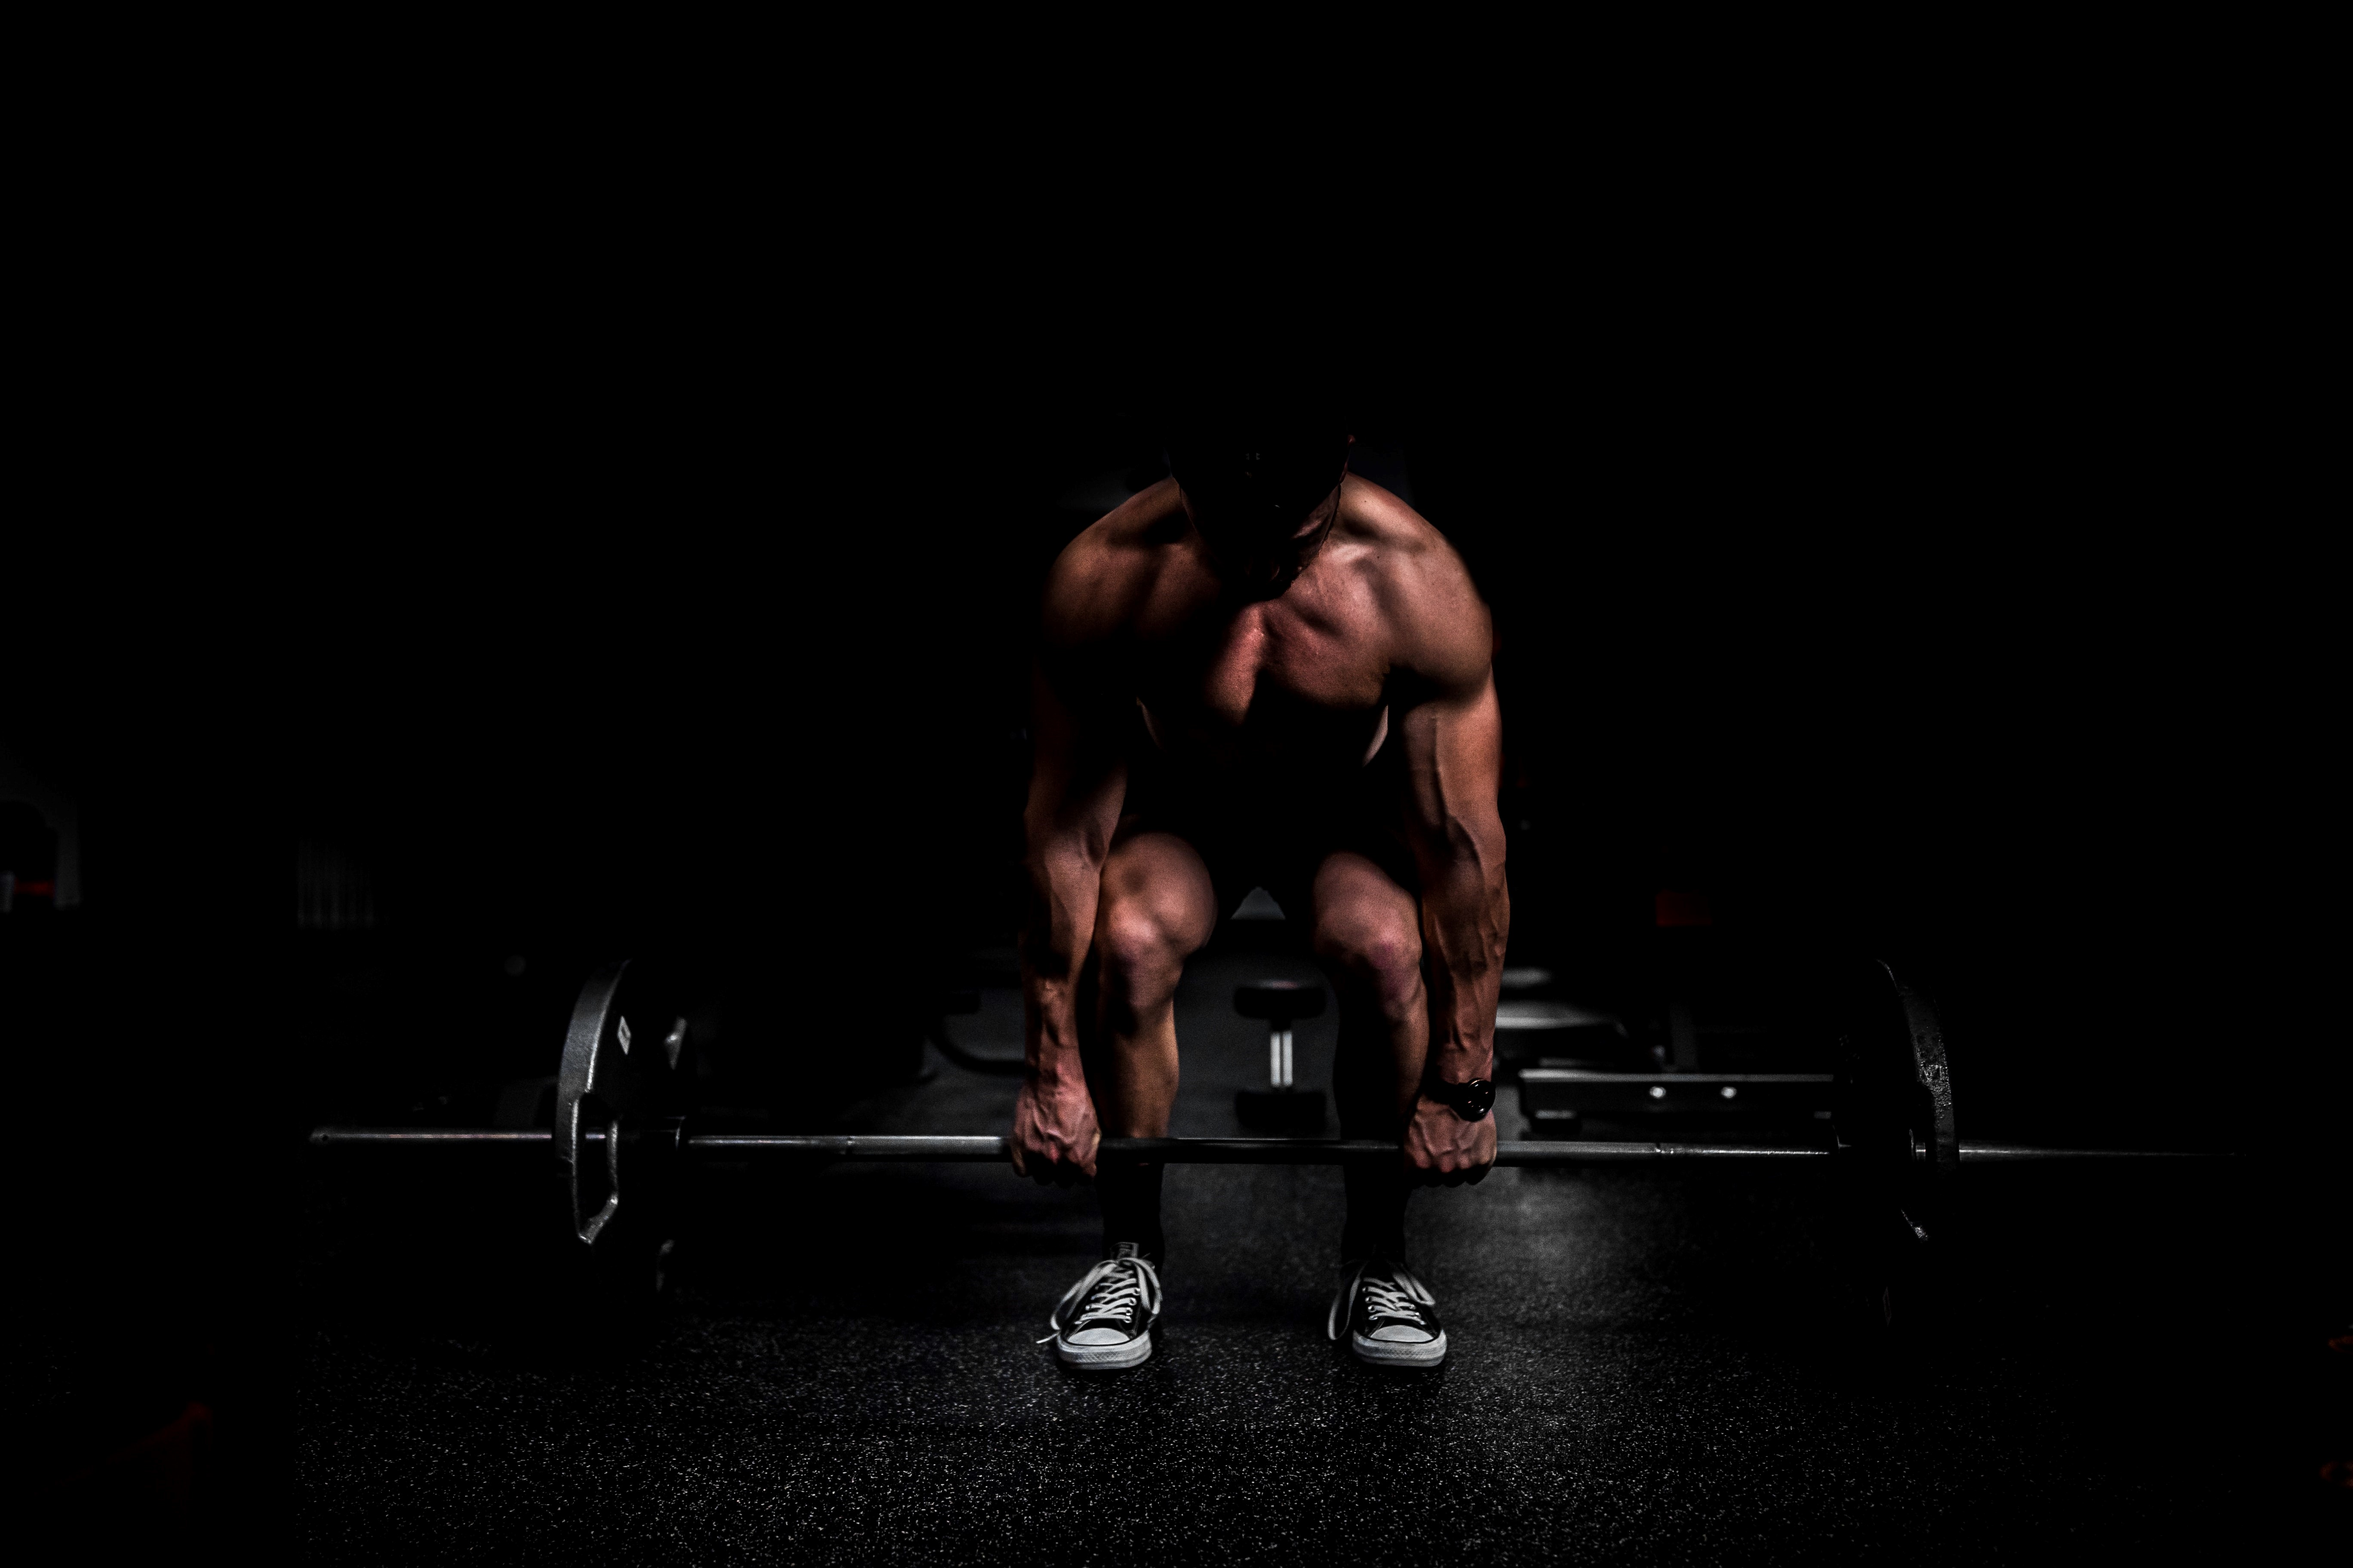
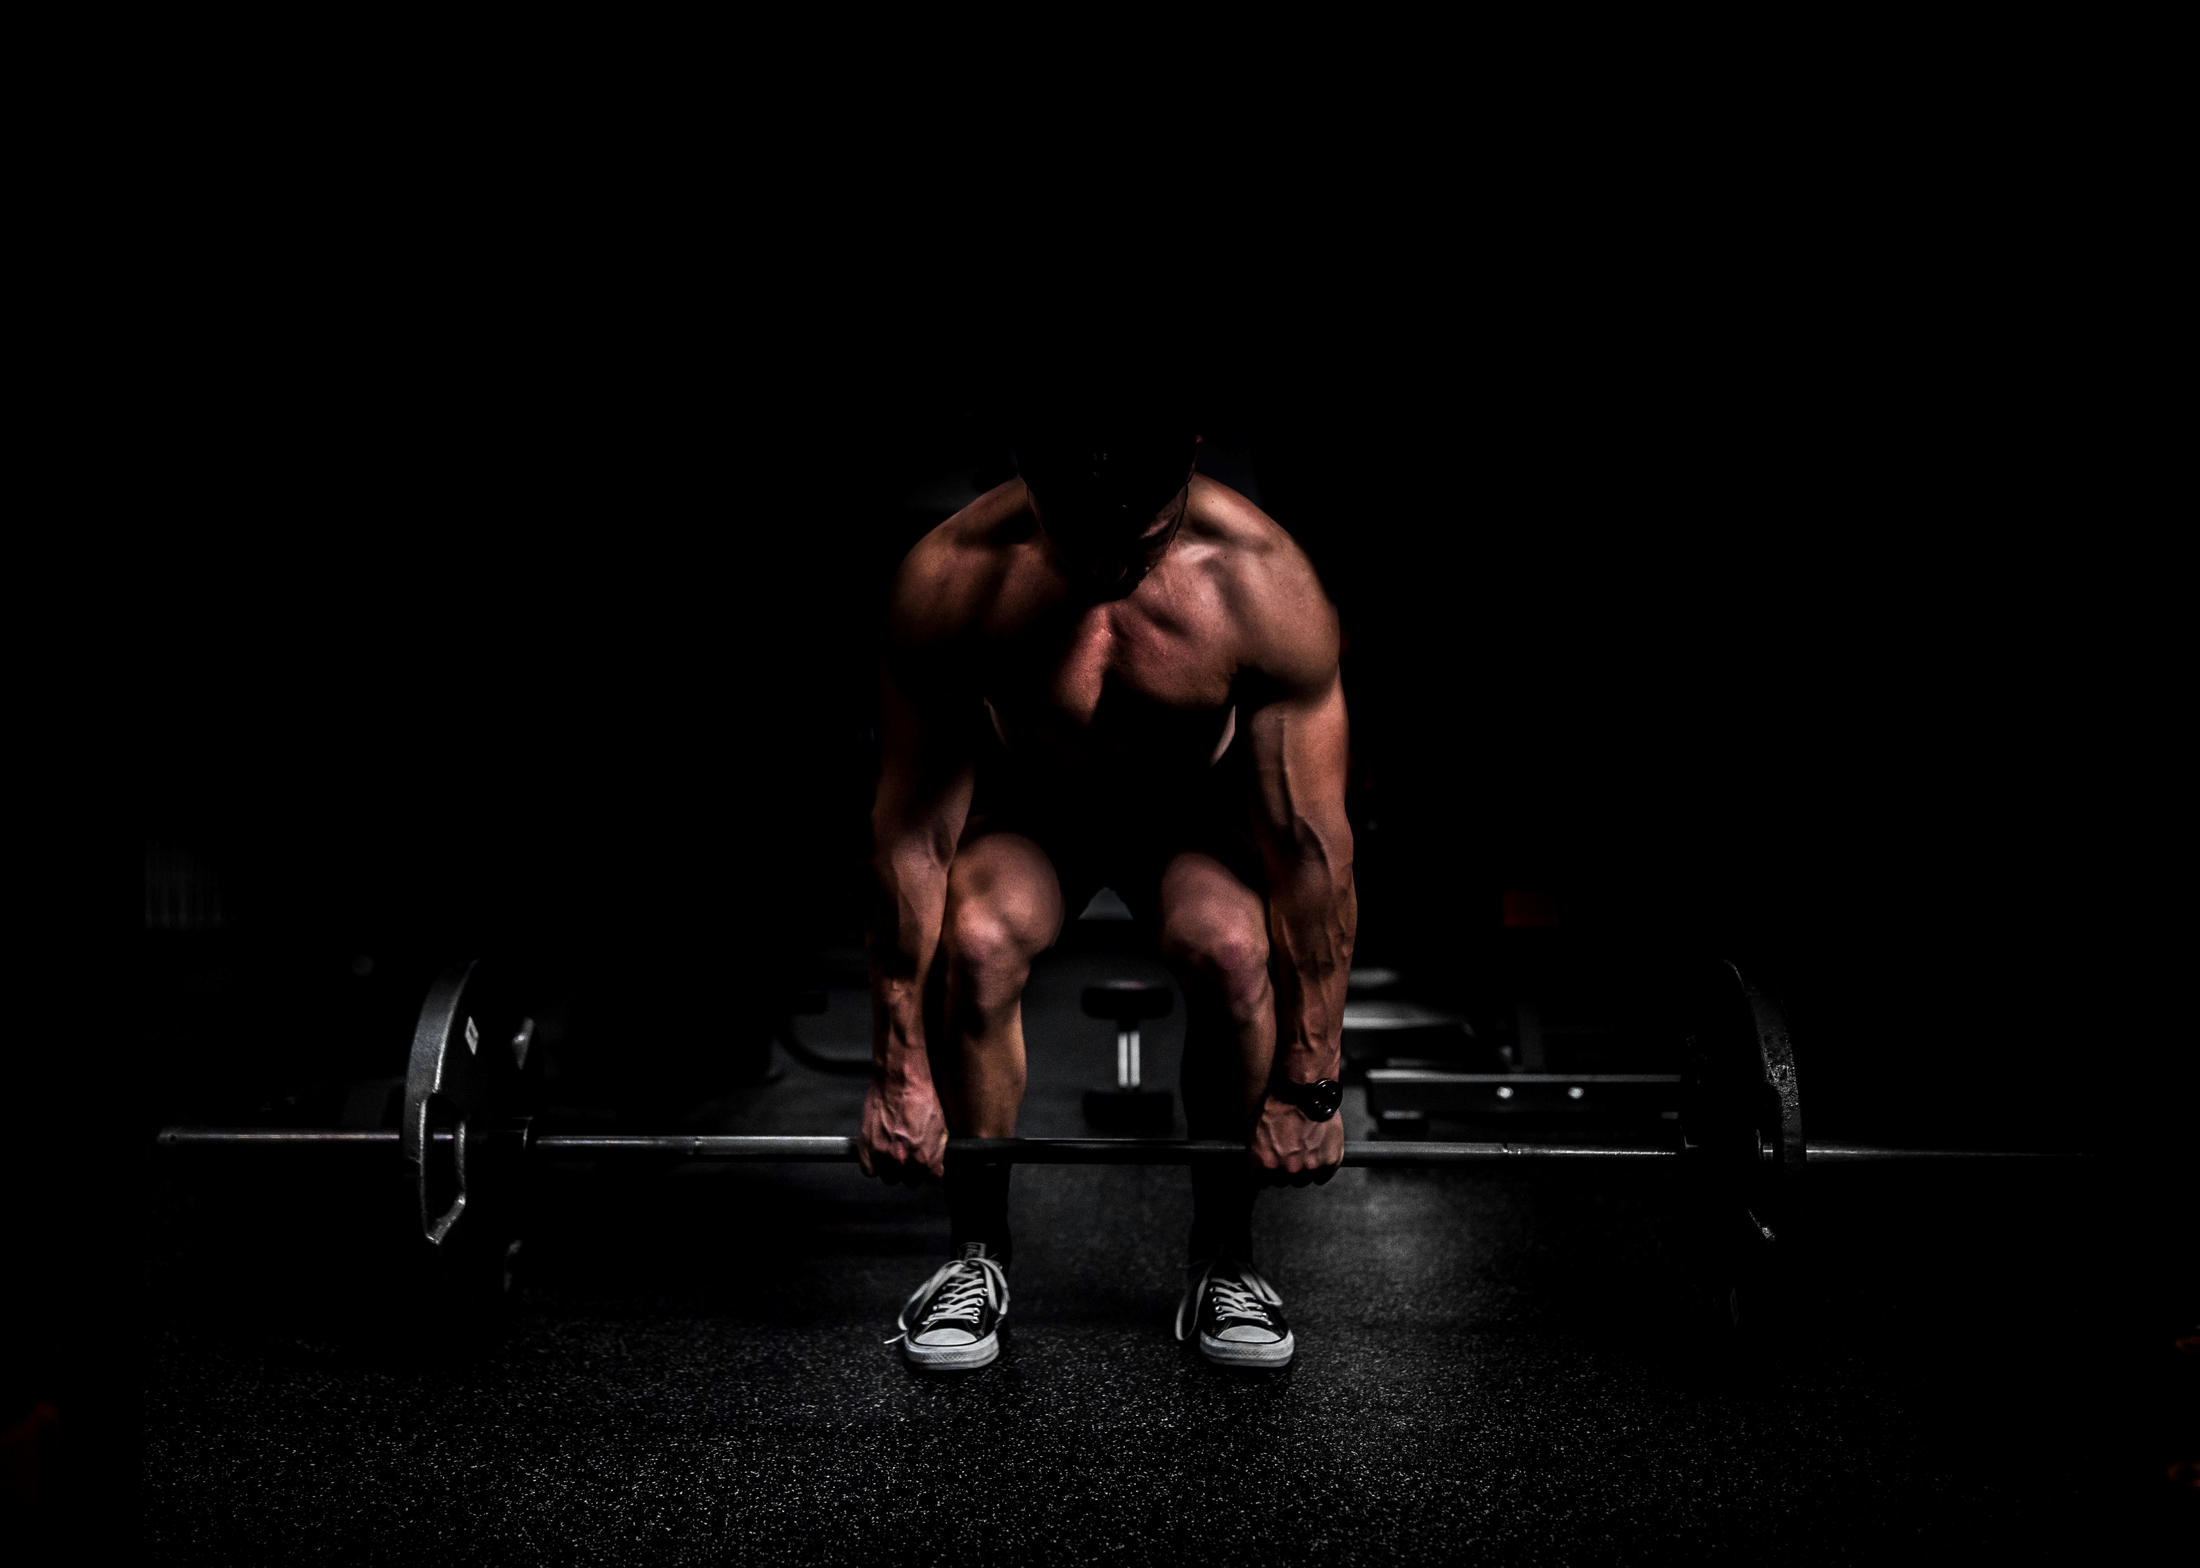
feature:wip home

diff --git a/src/Styles/Home.ts b/src/Styles/Home.ts
@@ -1,33 +1,121 @@
-import styled from 'styled-components'
+import styled from "styled-components";
 
 export const ContainerCad = styled.div`
-	width: 100%;
-	height: 130vh;
-	@media (max-width: 500px) {
-	}
-`
+  width: 100%;
+  height: 130vh;
+  @media (max-width: 500px) {
+  }
+`;
 export const HomeHeader = styled.header`
   height: 200px;
   position: fixed;
   z-index: 1;
-`
+`;
 
 export const HomeLogo = styled.img`
   width: 100px;
   height: 200px;
-`
+  background-color: white;
+`;
 export const HomeSection = styled.section`
+  background-color: var(--preto);
   max-width: 100%;
   width: 100vw;
   height: 100vh;
-`
+`;
 
 export const HomeImage = styled.img`
-  // @media (max-width: 755px) {
-  // }
+  filter: blur(4px);
   object-fit: cover;
-  object-position:  center;
+  object-position: center;
   height: 100vh;
   max-width: 100%;
   width: 100vw;
-`
+  position: absolute;
+`;
+
+export const HomeTitle = styled.h1`
+  color: var(--bege);
+  font-size: 3rem;
+  font-weight: 700;
+  position: absolute;
+  top: 40vh;
+  text-align: center;
+`;
+
+export const HomeSubtitle = styled.h2`
+  color: var(--bege);
+  font-size: 1rem;
+  font-weight: 400;
+  position: absolute;
+  top: 47vh;
+  text-align: center;
+`;
+
+export const SelectWorkoutSection = styled.section`
+  background-color: var(--preto);
+  color: var(--bege);
+  height: 100vh;
+  max-width: 100%;
+  width: 100vw;
+`;
+
+export const SelectWorkoutTitle = styled.h1`
+  color: var(--bege);
+  font-family: "Roboto", sans-serif;
+  font-size: 1.5rem;
+  font-weight: 700;
+  text-align: center;
+  padding-top: 20vh;
+`;
+
+export const WorkoutButtonsWrapper = styled.div`
+  align-items: center;
+  display: flex;
+  flex-direction: column;
+  gap: 30px;
+  justify-content: center;
+  margin-top: 50px;
+  text-align: center;
+  width: 100%;
+`;
+
+export const WorkoutButton = styled.button`
+  background-image: linear-gradient(
+    to right,
+    var(--cinza) 0%,
+    var(--verde) 100%
+  );
+  border-radius: 40px;
+  box-sizing: border-box;
+  color: #00a84f;
+  cursor: pointer;
+  display: block;
+  height: 50px;
+  font-size: 1.4em;
+  padding: 4px;
+  position: relative;
+  text-decoration: none;
+  width: 7em;
+  z-index: 2;
+
+  &:hover {
+    color: #fff;
+  }
+`;
+
+export const WorkoutButtonSpan = styled.span`
+  align-items: center;
+  background: #0e0e10;
+  color: var(--bege);
+  border-radius: 40px;
+  display: flex;
+  justify-content: center;
+  height: 100%;
+  transition: background 0.5s ease;
+  width: 100%;
+
+  &:hover {
+    background: transparent;
+  }
+`;

diff --git a/src/Pages/Home.tsx b/src/Pages/Home.tsx
@@ -1,29 +1,51 @@
-import React from 'react'
+import React from "react";
 
 import logo from "../Assets/logo.svg";
 import image from "../Assets/bg-pic.jpg";
 
-import { 
+import {
   HomeHeader,
   HomeLogo,
   HomeImage,
-  HomeSection 
-} from '../Styles/Home'
+  HomeSection,
+  HomeTitle,
+  HomeSubtitle,
+  SelectWorkoutSection,
+  SelectWorkoutTitle,
+  WorkoutButtonsWrapper,
+  WorkoutButton,
+  WorkoutButtonSpan,
+} from "../Styles/Home";
 
 function Home() {
   return (
     <>
-      <HomeHeader>
+      {/* <HomeHeader>
         <HomeLogo src={logo} alt="logo" />
-      </HomeHeader>
+      </HomeHeader> */}
       <body>
         <HomeSection>
           <HomeImage src={image} />
-            bg aqui com um titulo de gerador de treinos
+          <HomeTitle>WorkoutGen</HomeTitle>
+          <HomeSubtitle>Your online personal trainer</HomeSubtitle>
         </HomeSection>
+        <SelectWorkoutSection>
+          <SelectWorkoutTitle>Escolha um modelo de treino</SelectWorkoutTitle>
+          <WorkoutButtonsWrapper>
+            <WorkoutButton>
+              <WorkoutButtonSpan>Treino AB</WorkoutButtonSpan>
+            </WorkoutButton>
+            <WorkoutButton>
+              <WorkoutButtonSpan>Treino ABC</WorkoutButtonSpan>
+            </WorkoutButton>
+            <WorkoutButton>
+              <WorkoutButtonSpan>Treino ABCD</WorkoutButtonSpan>
+            </WorkoutButton>
+          </WorkoutButtonsWrapper>
+        </SelectWorkoutSection>
       </body>
     </>
-  )
+  );
 }
 
-export default Home
+export default Home;

diff --git a/src/Styles/Global.ts b/src/Styles/Global.ts
@@ -2,12 +2,20 @@ import { createGlobalStyle } from "styled-components";
 
 export const GlobalStyle = createGlobalStyle`
   root, *, html, body {
+    --preto: #0a0708;
+    --cinza-escuro: #333333;
+    --cinza: #676765;
+    --verde-claro: #9acf42;
+    --verde: #53b350;
+    --cinza-claro #c3c5c9;
+    --bege: #f7f5f6;
     border: 0;
+    color: #0a0708;
+    font-family: 'Blinker', sans-serif;
     margin: 0;
-    max-width:100%; 
+    max-width: 100%; 
     padding: 0;
-    font: inherit;
 	  vertical-align: baseline;
     width: 100vw;
   }
-`
+`;

diff --git a/public/index.html b/public/index.html
@@ -25,6 +25,12 @@
       Learn how to configure a non-root public URL by running `npm run build`.
     -->
     <title>React App</title>
+    <link rel="preconnect" href="https://fonts.googleapis.com" />
+    <link rel="preconnect" href="https://fonts.gstatic.com" crossorigin />
+    <link
+      href="https://fonts.googleapis.com/css2?family=Blinker:wght@200;700&family=Roboto:wght@400;500;700;900&display=swap"
+      rel="stylesheet"
+    />
   </head>
   <body>
     <noscript>You need to enable JavaScript to run this app.</noscript>
